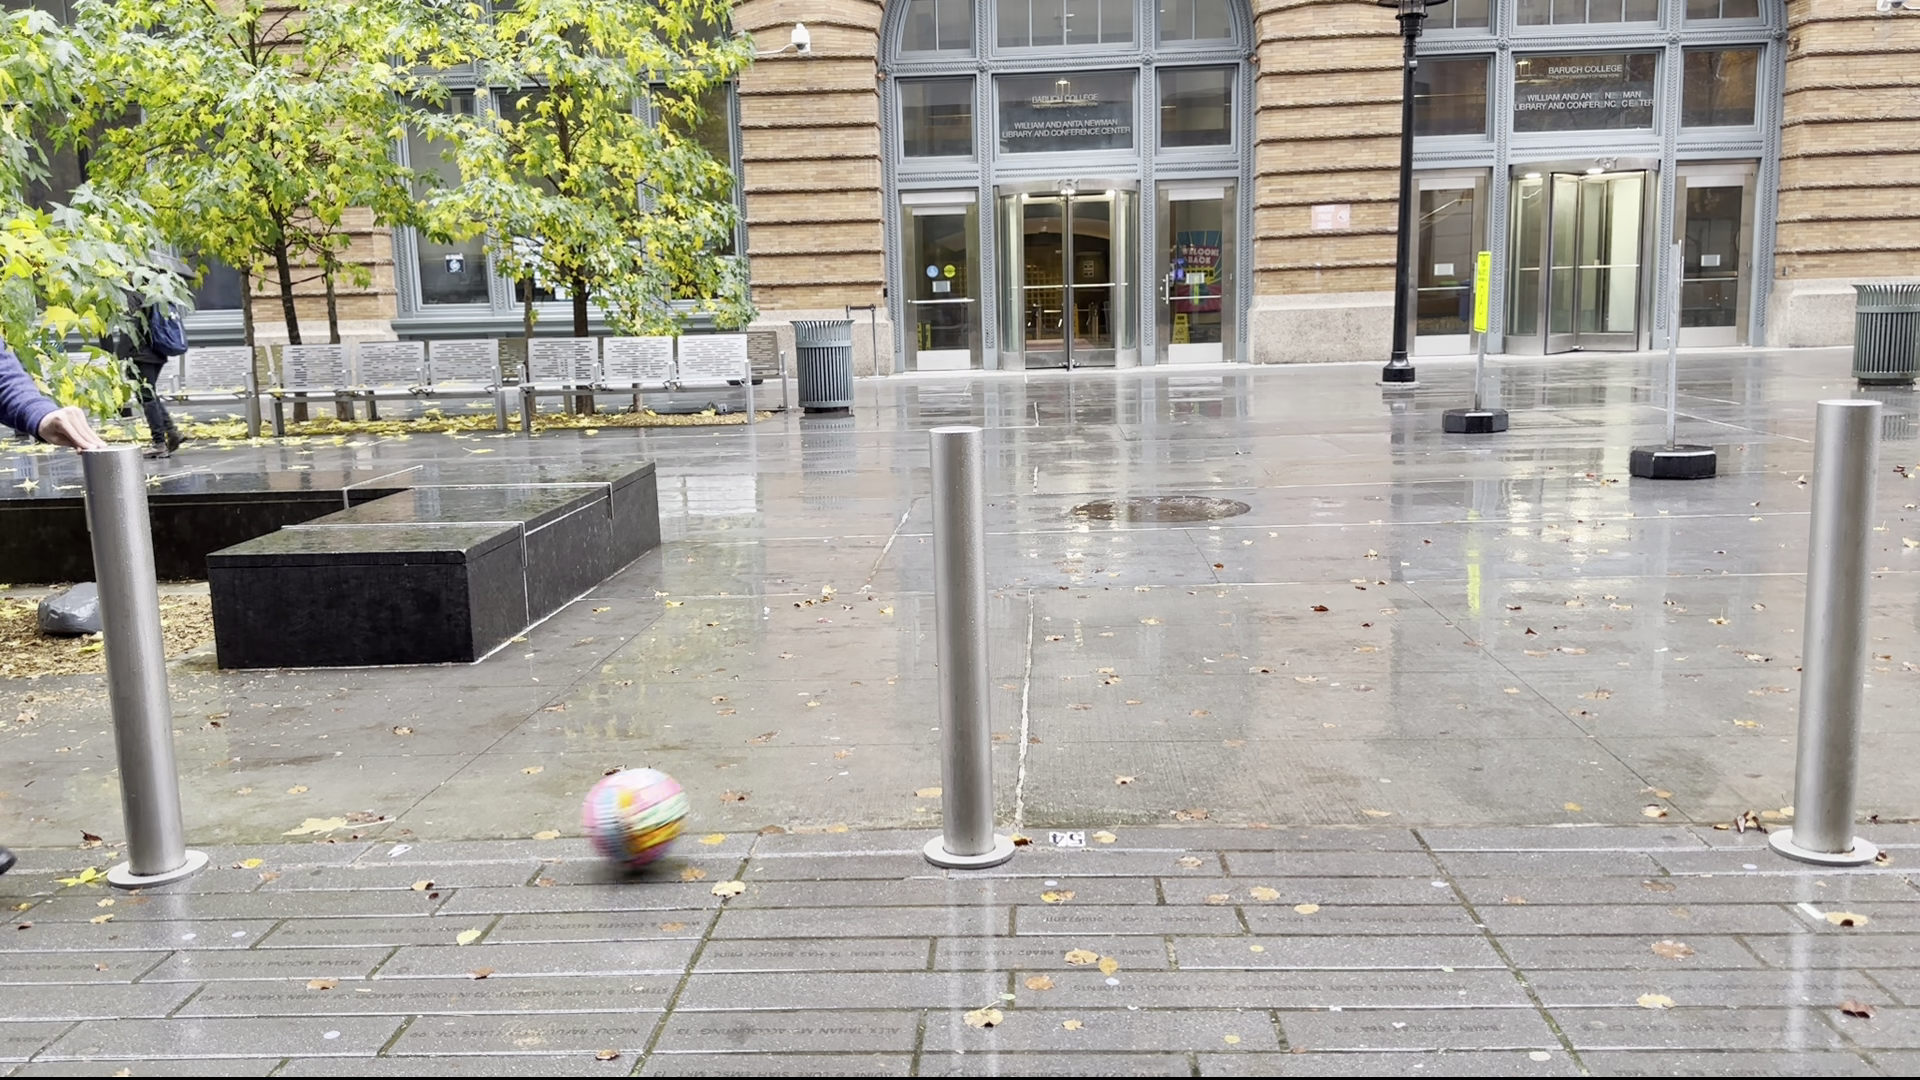
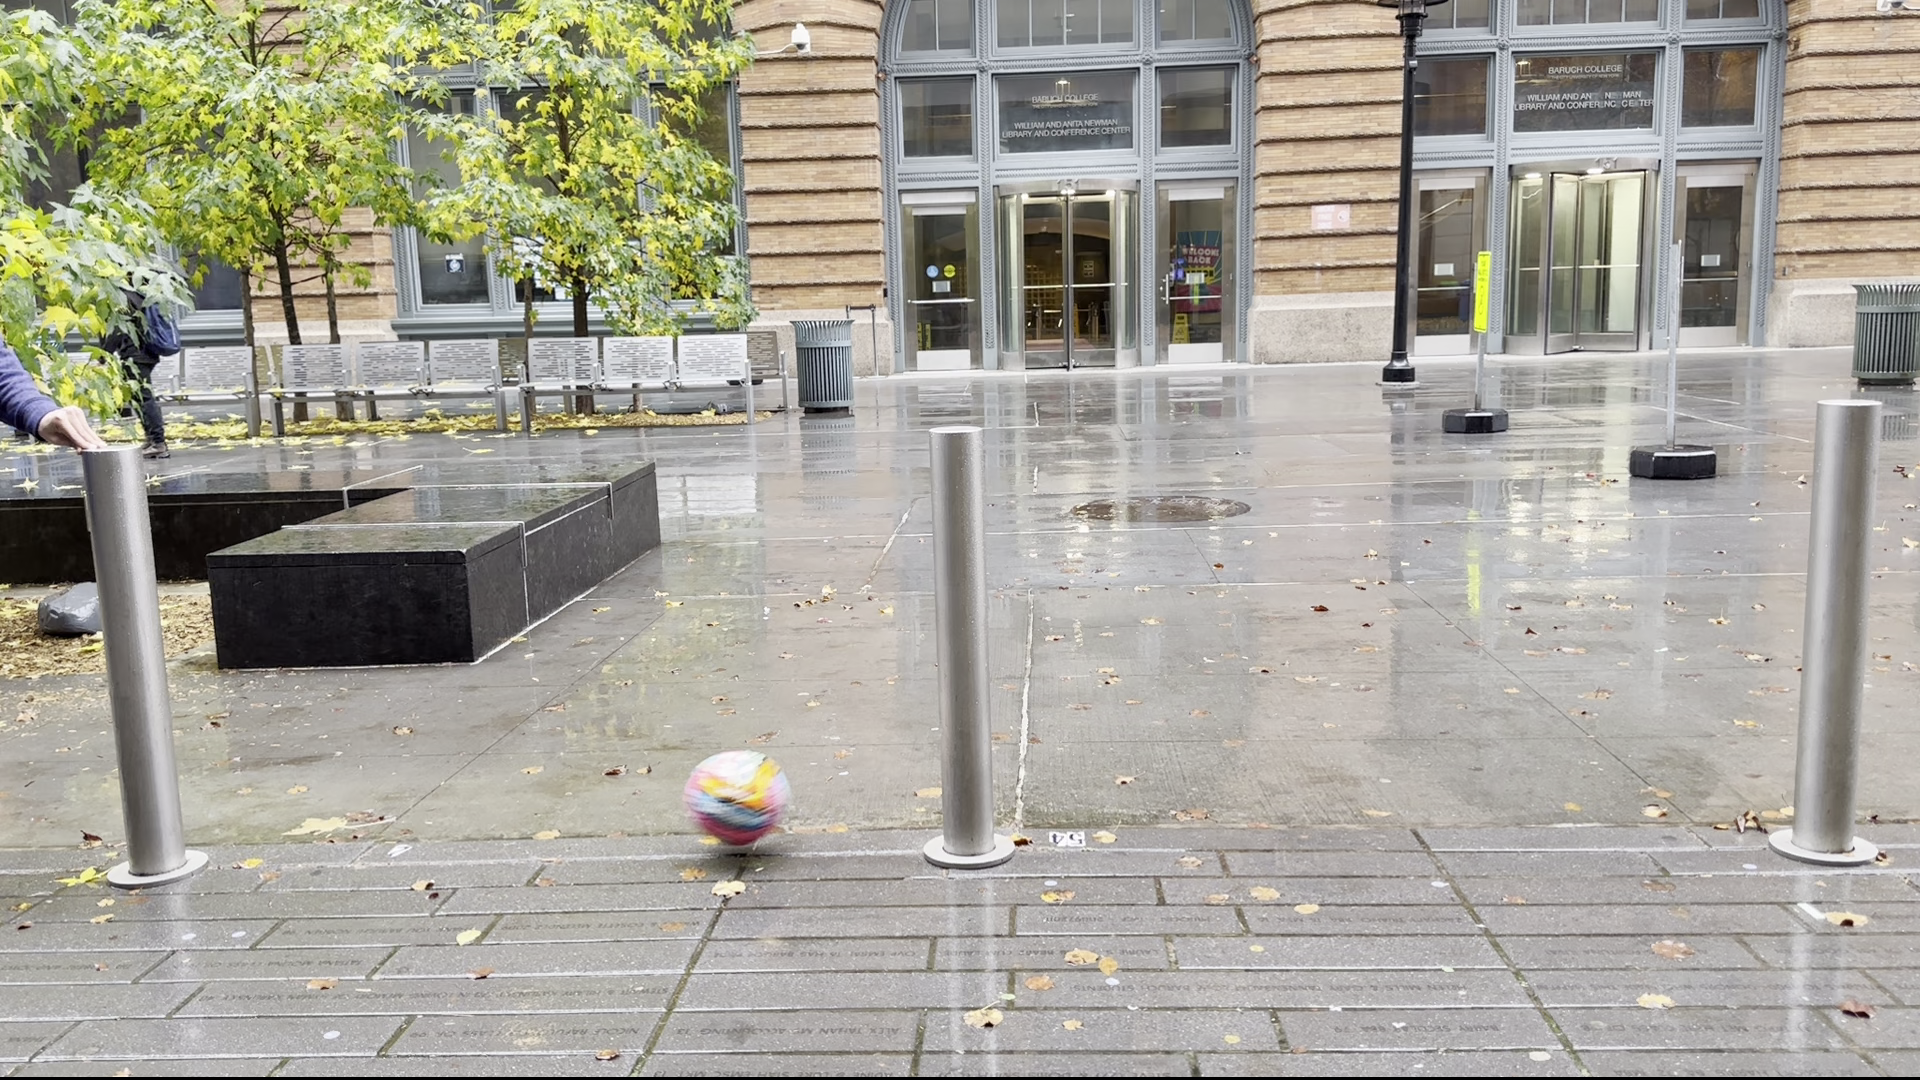
ball tracking

Changed region(s): [[0.2812, 0.6722, 0.4375, 0.8861], [0.0312, 0.2139, 0.125, 0.4278], [0.0, 0.3361, 0.0312, 0.3972]]

diff --git a/kickflowtracker.py b/kickflowtracker.py
@@ -1,11 +1,24 @@
 #import libraries
 import cv2 as cv 
 import motion_utils as mu 
+import camera_utils as cu
+import numpy as np
+
 
 
 
 #entry into kickflow tracker
 def main(video_input):
+
+    tracker = cv.TrackerCSRT_create()
+    BB = None
+
+    def track(frame):
+        (success, box) = tracker.update(frame)
+        if success:
+            (x, y, w, h) = [int(v) for v in box]
+            cv.rectangle(frame, (x, y), (x+w, y+h), (255, 0, 0), 2)
+        return success, frame
     #define CV video capture obj 
     video = cv.VideoCapture(video_input)
     #get fps of video feed 
@@ -29,22 +42,35 @@ def main(video_input):
         #if successfully reading frame
         if ret: 
             #convert cur frame to grayscale 
-            frame = cv.cvtColor(frame,cv.COLOR_BGR2GRAY)
+            gray_frame = cv.cvtColor(frame,cv.COLOR_BGR2GRAY)
+            key = cv.waitKey(1) & 0xFF
+
+            if BB is not None:
+                    success, frame = track(frame) # Track object
+            
+            if key == ord("c"): # Select Region of Interest (ROI) to track
+                # cv.imwrite('tracking_frame.png',frame)
+                # BB = cv.selectROI("Frame", frame, fromCenter=False, showCrosshair=True)
+                BB = cu.detect_circles(frame)
+                tracker.init(frame, BB)
+
+            # x,y,r = cu.detect_circles(frame)
             #optical flow 
-            mag,angle = mu.perform_optical_flow(prev_img,frame)
+            mag,angle = mu.perform_optical_flow(prev_img,gray_frame)
             #optical flow visualization
             opt_flow_viz = mu.visualize_optical_flow(mag,angle,shape)
 
             #display 
-            cv.imshow('KickFlow Tracker',opt_flow_viz)
-
+            concat_frame = np.concatenate((frame, opt_flow_viz), axis=1)
+            # cv.rectangle(concat_frame, (x-r,y-r), (x+r, y+r), (0,255,0), 2)
+            cv.imshow('KickFlow Tracker',concat_frame)
             #quit loop if 'q' pressed
-            key = cv.waitKey(1) & 0xFF
-            if key == ord('q'):
+            
+            if key == ord("q"):
                 break
-
+            
             #update prev_img
-            prev_img = frame
+            prev_img = gray_frame
         
         #quit if frame not returned 
         else:
@@ -58,5 +84,5 @@ def main(video_input):
     return  
 
 if __name__ == "__main__":
-    video_input = '/Users/allenlau/Documents/CCNY/Fall23/CSCI6516_ComputerVision/project/KickFlowTracker/data/external/vid5.mov'
+    video_input = '/Users/rahool/Desktop/CCNY/Semester 3/Computer_Vision/Final_project/All_videos/IMG_4149.MOV'
     main(video_input)

diff --git a/optical_flow_test.py b/optical_flow_test.py
@@ -1,0 +1,52 @@
+import cv2
+import numpy as np
+
+# Set up video capture
+cap = cv2.VideoCapture('/Users/rahool/Desktop/CCNY/Semester 3/Computer_Vision/Final_project/All_videos/IMG_4151.MOV') 
+
+# Lucas-Kanade optical flow params
+lk_params = dict(winSize=(15, 15), 
+                 maxLevel=2,
+                 criteria=(cv2.TERM_CRITERIA_EPS | cv2.TERM_CRITERIA_COUNT, 10, 0.03))
+
+# Create random colors for rects    
+color = np.random.randint(0,255,(100,3))
+
+# Take first frame 
+ret, prev_frame = cap.read()
+prev_gray = cv2.cvtColor(prev_frame, cv2.COLOR_BGR2GRAY)
+
+while(cap.isOpened()):
+    # Detect ball in frame using HSV threshold
+    ret, frame = cap.read()
+    hsv = cv2.cvtColor(frame, cv2.COLOR_BGR2HSV)  
+    mask = cv2.inRange(hsv, (36, 25, 25), (70, 255,255))
+    contours, _ = cv2.findContours(mask, cv2.RETR_EXTERNAL, cv2.CHAIN_APPROX_SIMPLE)
+    for cnt in contours:
+        area = cv2.contourArea(cnt)
+        if area > 300:
+
+            (x, y, w, h) = cv2.boundingRect(cnt)
+    
+            # Set tracking point at ball center 
+            prevPt = np.array([[x+w/2], [y+h/2]], np.float32)
+            
+            # Calculate flow at ball center
+            flow = cv2.calcOpticalFlowPyrLK(prev_gray, frame, prevPt, None, **lk_params) 
+            # Draw rectangle on ball
+            cv2.rectangle(frame, (x,y), (x+w,y+h), (0,255,0), 2)
+            
+    # Get flow at detected ball area
+    flow = cv2.calcOpticalFlowPyrLK(prev_gray, frame, None, None, **lk_params)        
+    prev_gray = cv2.cvtColor(frame, cv2.COLOR_BGR2GRAY)
+
+    # Display image with rects
+    cv2.imshow('Frame', frame)      
+      
+    # Exit if ESC is pressed 
+    k = cv2.waitKey(30) & 0xff
+    if k == 27:
+        break
+            
+cap.release()
+cv2.destroyAllWindows()

diff --git a/camera_utils.py b/camera_utils.py
@@ -66,12 +66,31 @@ def write_frames(video_input,out,fname,frame_skip):
 
         if ret:
             if count%frame_skip==0:
-                cv.imwrite(os.path.join(out,f'{fname+'_'+str(count)+'.png'}'),frame)
+                cv.imwrite(os.path.join(out,f'{fname+"_"+str(count)+".png"}'),frame)
         else:
             break
         count+=1
     
-    return  
+    return  0
+
+
+def detect_circles(frame):
+    grayFrame = cv.cvtColor(frame,cv.COLOR_BGR2GRAY)
+    blurFrame = cv.GaussianBlur(grayFrame,(9,9),0)
+    circles = cv.HoughCircles(blurFrame,cv.HOUGH_GRADIENT,1,40,param1=65, param2=30, minRadius=35, maxRadius=85)
+    ball_x, ball_y,ball_r = 0,0,0
+    if circles is not None:
+        circles = np.uint16(np.around(circles))
+        circles = circles[0]
+        for (x,y,r) in circles:
+            if y>500 and x>100:
+                ball_x, ball_y,ball_r = x,y,r
+                break
+    return (ball_x-ball_r,ball_y-ball_r,2*ball_r,2*ball_r)
+        
+
+
+
 
 if __name__ == "__main__":
     # input = '/Users/allenlau/Documents/CCNY/Fall23/CSCI6516_ComputerVision/project/KickFlowTracker/data/external/vid5.mov'

diff --git a/ball_detect_circle.py b/ball_detect_circle.py
@@ -8,7 +8,7 @@ cv.imwrite("GrayScaleImage.png",grayFrame)
 blurFrame = cv.GaussianBlur(grayFrame,(9,9),0)
 cv.imwrite('BlurFrame.png',blurFrame)
 
-circles = cv.HoughCircles(blurFrame,cv.HOUGH_GRADIENT,1,30,param1=60, param2=30, minRadius=25, maxRadius=90)
+circles = cv.HoughCircles(blurFrame,cv.HOUGH_GRADIENT,1,40,param1=65, param2=30, minRadius=35, maxRadius=85)
 
 if circles is not None:
     circles = np.uint16(np.around(circles))
@@ -16,7 +16,7 @@ if circles is not None:
     circles = circles[0]
     for (x,y,r) in circles:
         
-        if y>500 and x>200:
+        if y>500 and x>100:
             print(x,y,r)
             cv.rectangle(frame, (x-r,y-r), (x+r, y+r), (0,255,0), 2)
             # cv.circle(frame,(x,y),r,(0,255,0), 2)

diff --git a/ball_detect.py b/ball_detect.py
@@ -26,6 +26,7 @@ while True:
     if key == ord("c"): # Select Region of Interest (ROI) to track
         cv.imwrite('tracking_frame.png',frame)
         BB = cv.selectROI("Frame", frame, fromCenter=False, showCrosshair=True)
+        print(BB)
         tracker.init(frame, BB)
         
     elif key == ord("q"):
